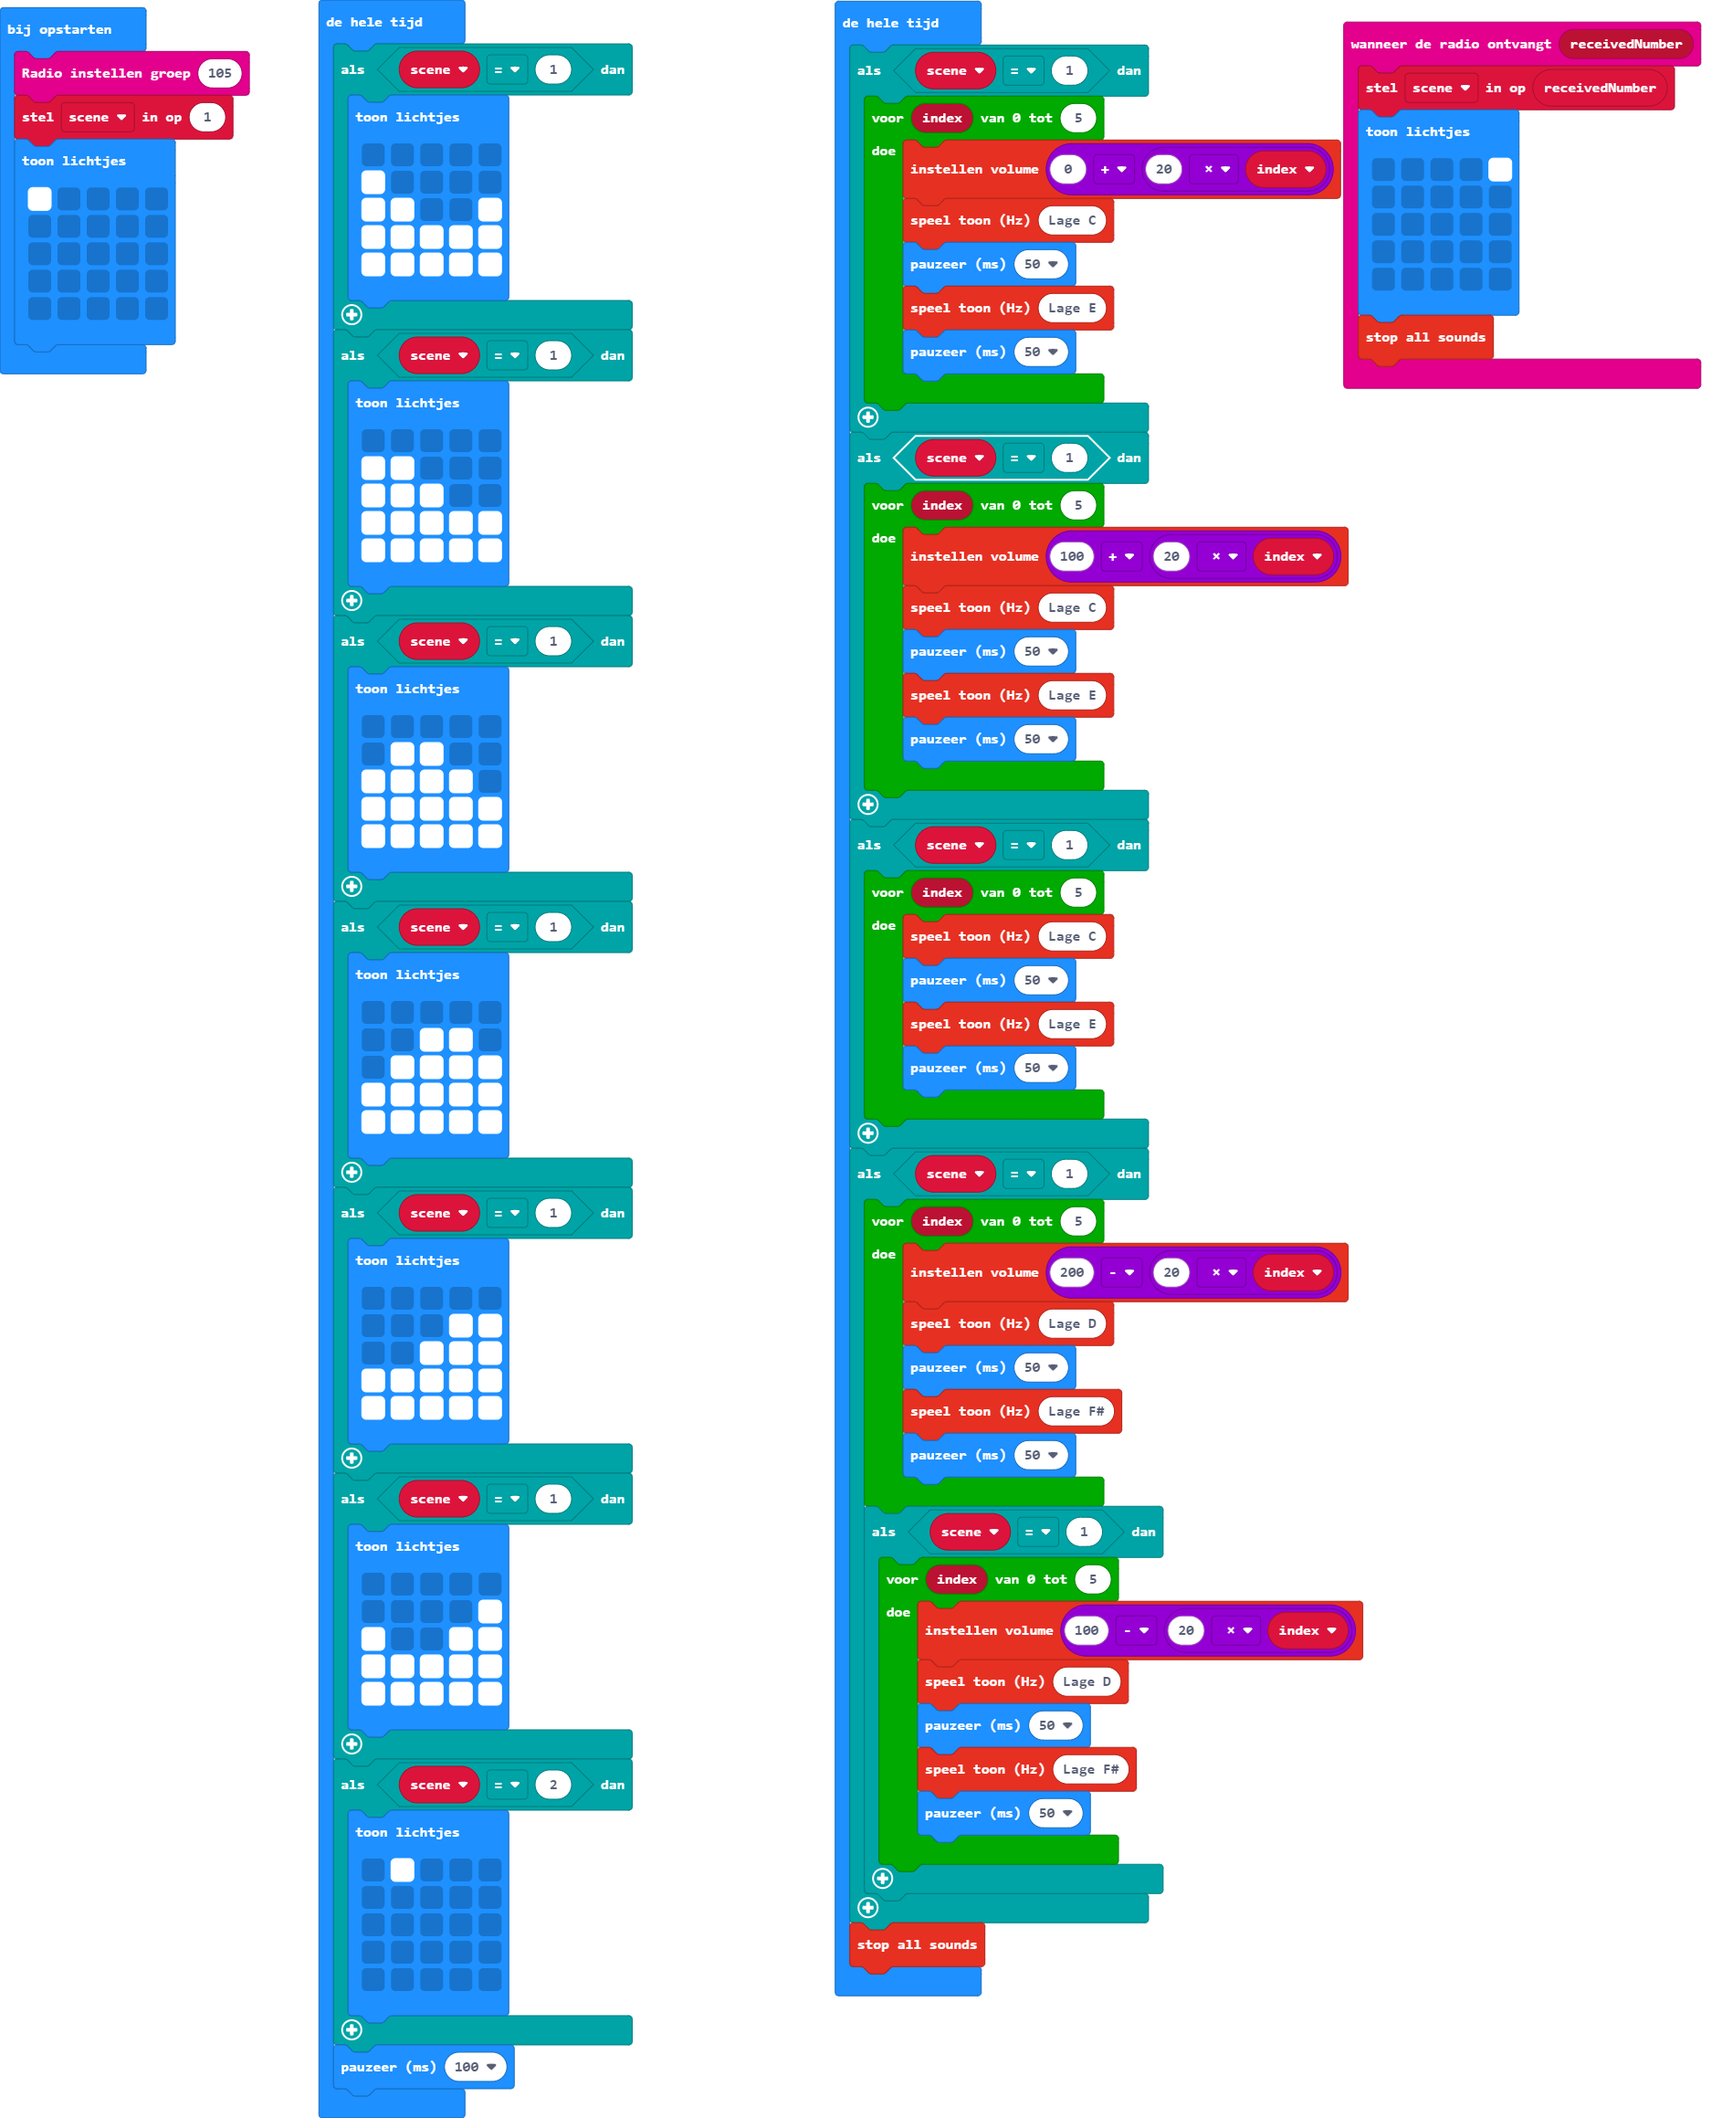
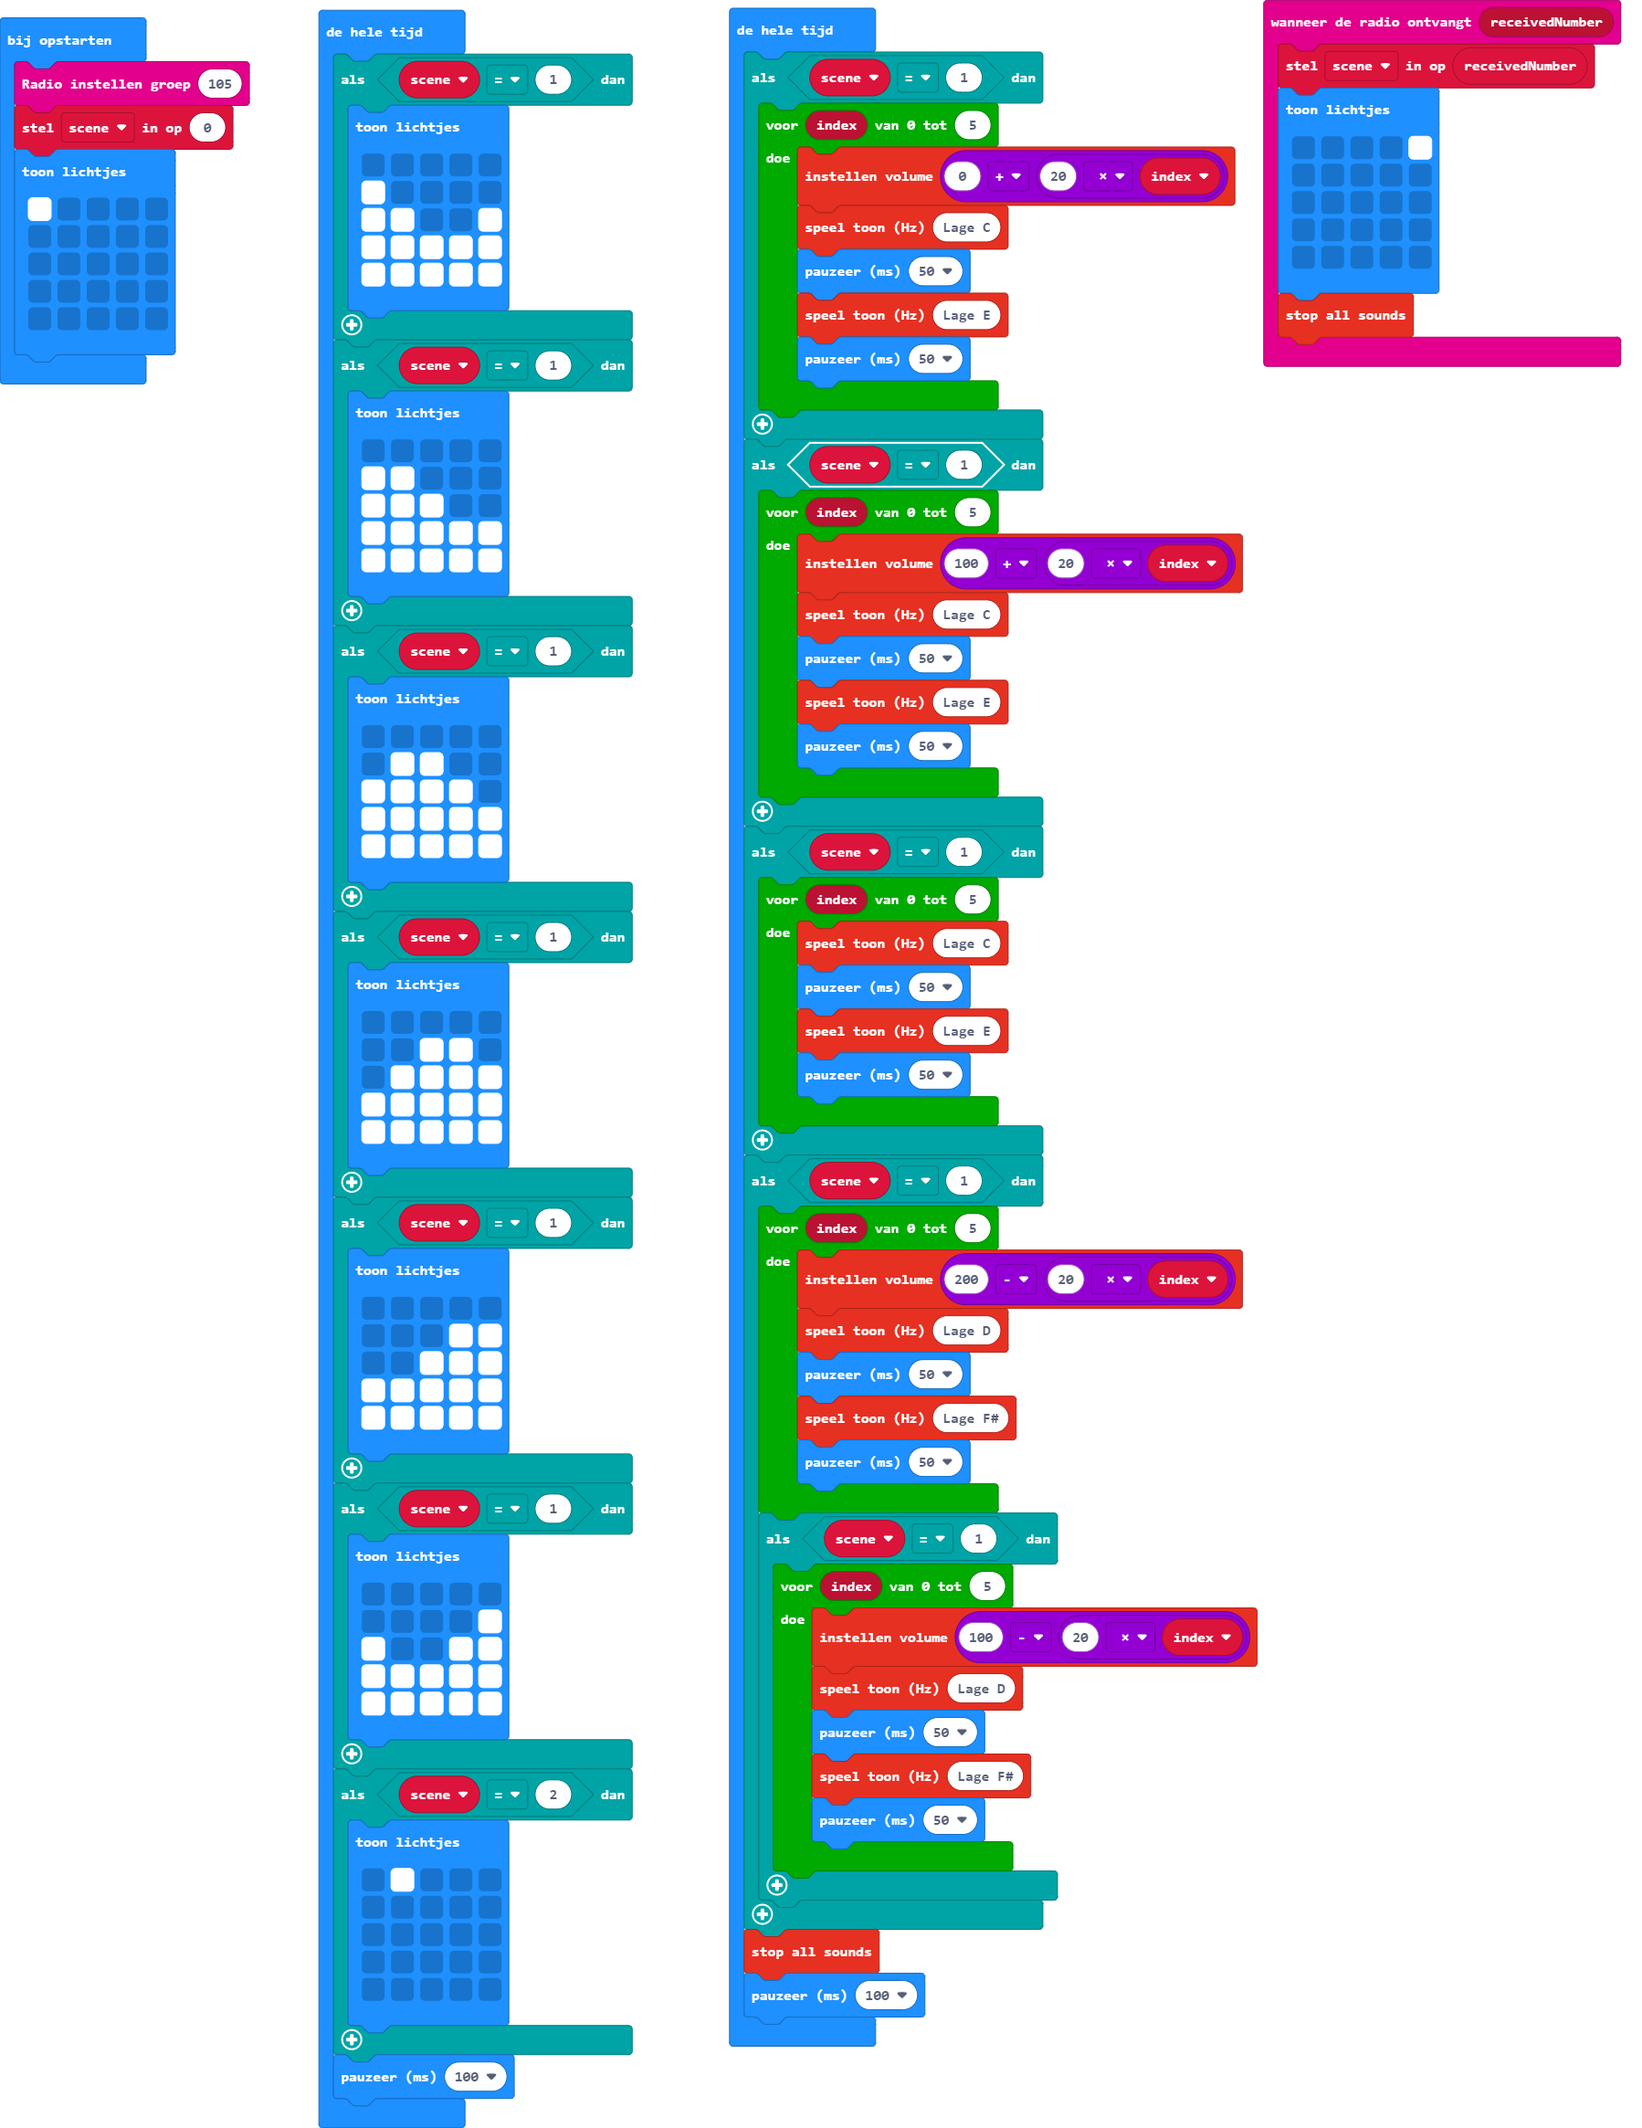
main.blocks, main.ts bijwerken

diff --git a/main.ts b/main.ts
@@ -11,7 +11,7 @@ radio.onReceivedNumber(function (receivedNumber) {
 })
 let scene = 0
 radio.setGroup(105)
-scene = 1
+scene = 0
 basic.showLeds(`
     # . . . .
     . . . . .
@@ -131,4 +131,5 @@ basic.forever(function () {
         }
     }
     music.stopAllSounds()
+    basic.pause(100)
 })
